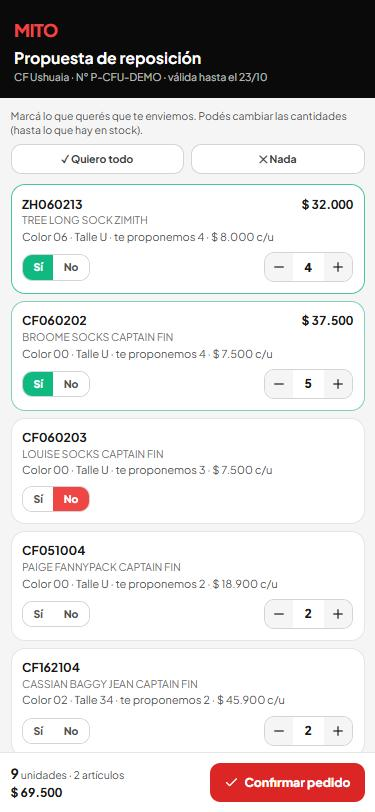
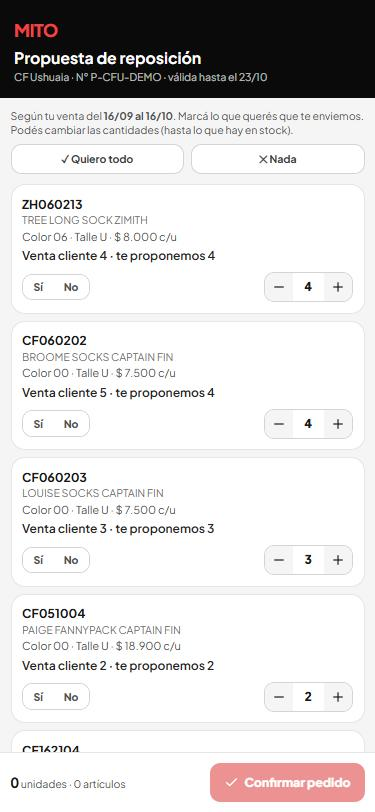
Mockup franquicias calzado: flujo completo link /p/:token -> confirmacion del cliente -> alta en Dragon con historial de estado + propuesta de celular actualizada

diff --git a/mockups/franquicias-pedido-calzado-curve.html b/mockups/franquicias-pedido-calzado-curve.html
@@ -91,13 +91,15 @@
   <h1 class="font-display text-2xl font-semibold text-ink mt-2 mb-1">Franquicias › Pedido de calzado</h1>
   <p class="text-sm text-sub">Primero el <b class="text-amber-400">cliente</b> (impacta en Dragonfish), después filtros de <b>temporada / material / grupo / familia</b>, y se arma la <b>nota de pedido de venta</b>.</p>
 
-  <p class="cap">Cómo funciona</p>
+  <p class="cap">Cómo funciona (mismo circuito que Reposición sugerida)</p>
   <div class="note">
     <ol>
-      <li><b class="text-ink">1 · Cliente obligatorio</b>: apenas entrás hay que <b>seleccionar el cliente</b> (ID Cliente de MITO). Hasta que no lo elegís, la tabla y los filtros quedan bloqueados. Ese ID Cliente es el que después <b>impacta en Dragonfish</b> al grabar la nota de pedido. <span class="tag">1.990 clientes reales</span></li>
-      <li><b class="text-ink">2 · Filtros multi-selección</b> de <b>Temporada</b> (Verano / Continuo / Invierno / Atemporal), <b>Material</b>, <b>Grupo</b> y <b>Familia</b>. Podés tildar varios en cada uno; se combinan entre sí y filtran la tabla al instante.</li>
-      <li><b class="text-ink">3 · Curva de talles</b>: dos solapas (zapatillas talle simple / chanclas y slippers talle doble). Cada celda muestra <b>arriba el stock de MITO</b> del talle (verde/ámbar/gris) y abajo el input para cargar los pares.</li>
-      <li><b class="text-ink">4 · Nota de pedido</b>: con lo cargado se genera la nota de pedido de venta del cliente elegido. Excel / PDF / WhatsApp comparativo.</li>
+      <li><b class="text-ink">1 · Cliente obligatorio</b>: apenas entrás hay que <b>seleccionar el cliente</b> (ID Cliente de MITO). Hasta que no lo elegís, la tabla y los filtros quedan bloqueados. Ese ID Cliente es el que va en la cabecera del <b>pedido de venta</b> que se carga en Dragon. <span class="tag">1.990 clientes reales</span></li>
+      <li><b class="text-ink">2 · Filtros multi-selección</b> de <b>Temporada</b> (Verano / Continuo / Invierno / Atemporal), <b>Material</b>, <b>Grupo</b> y <b>Familia</b> (de <code>DWH.dbo.vw_DIM_ARTICULO</code>). Podés tildar varios en cada uno; se combinan y filtran la tabla al instante.</li>
+      <li><b class="text-ink">3 · Curva de talles</b>: dos solapas (zapatillas talle simple / chanclas y slippers talle doble). Cada celda muestra <b>arriba el stock de MITO</b> del talle y abajo el input para cargar los pares.</li>
+      <li><b class="text-ink">4 · Armar link y mandar por WhatsApp</b>: se guarda la propuesta con el cliente elegido y sale el link <code>/p/:token</code>.</li>
+      <li><b class="text-ink">5 · El cliente confirma</b> desde el link (marca sí/no y cantidades, topeadas al stock de MITO).</li>
+      <li><b class="text-ink">6 · Alta en Dragon automática</b>: el puente toma las confirmadas y las carga como <b>Pedido de Venta</b> en <code>DRAGONFISH_MITO</code> por la API REST (<code>POST /Pedido/</code>). Después podés seguir el estado desde la pantalla.</li>
     </ol>
   </div>
 
@@ -170,10 +172,61 @@
         <button class="tabbtn" id="btnLimpiar">Limpiar cantidades</button>
         <button class="tabbtn" id="btnExcel">⬇ Excel</button>
         <button class="tabbtn" id="btnPdf">PDF</button>
-        <button class="tabbtn primary" id="btnGuardarEnviar">Guardar nota de pedido y enviar</button>
+        <button class="tabbtn primary" id="btnGuardarEnviar">Armar link y mandar por WhatsApp</button>
       </div>
     </div>
-    <p class="mt-2 text-[11px] text-sub">La fila de <b class="text-ink">talles queda fija</b> arriba al scrollear. <b class="text-ink">No se puede pedir más que el stock de MITO.</b></p>
+    <p class="mt-2 text-[11px] text-sub">La fila de <b class="text-ink">talles queda fija</b> arriba al scrollear. <b class="text-ink">No se puede pedir más que el stock de MITO.</b> El pedido queda <b class="text-ink">pendiente</b> hasta que el cliente lo confirma desde el link.</p>
+  </div>
+
+  <!-- PASO 3: historial / estado hasta Dragon -->
+  <p class="cap">Paso 3 · Estado de las propuestas (hasta el alta en Dragon)</p>
+  <div class="frame">
+    <div class="flex flex-wrap items-center gap-2 mb-2">
+      <span class="step">3</span>
+      <p class="font-display text-base font-semibold text-ink">Propuestas de pedido de calzado</p>
+      <p class="ml-auto text-[12px] text-sub">El puente carga en Dragon la confirmada, en el minuto siguiente</p>
+    </div>
+    <div class="overflow-x-auto rounded-xl border border-line">
+      <table class="cli" style="border-collapse:separate;border-spacing:0">
+        <thead>
+          <tr>
+            <th style="width:120px">N°</th>
+            <th>Cliente destino</th>
+            <th style="width:120px">Enviada</th>
+            <th style="width:120px" class="text-right">Pares</th>
+            <th style="width:120px" class="text-right">Pidió</th>
+            <th style="width:230px">Estado</th>
+          </tr>
+        </thead>
+        <tbody>
+          <tr>
+            <td class="font-semibold text-ink">P-CFU-0003</td>
+            <td class="text-ink">#01140 — Argentina S.R.L. <span class="text-sub">· Ushuaia</span></td>
+            <td class="text-sub">19/10 09:12</td>
+            <td class="text-right tabular-nums text-sub">412 u.</td>
+            <td class="text-right tabular-nums text-ink font-semibold">386 u.</td>
+            <td><span class="badge sur" style="color:#d8b4fe;border-color:rgba(168,85,247,.45);background:rgba(168,85,247,.14)">En Dragon · pedido 41.207</span></td>
+          </tr>
+          <tr>
+            <td class="font-semibold text-ink">P-CFU-0002</td>
+            <td class="text-ink">#00790 — AMILCAR SERGIO HEREDIA FERNAND <span class="text-sub">· Ushuaia</span></td>
+            <td class="text-sub">18/10 17:40</td>
+            <td class="text-right tabular-nums text-sub">210 u.</td>
+            <td class="text-right tabular-nums text-ink font-semibold">210 u.</td>
+            <td><span class="badge" style="color:#5eead4;border-color:rgba(45,212,191,.4);background:rgba(45,212,191,.12)">Confirmada · cargando en Dragon…</span></td>
+          </tr>
+          <tr>
+            <td class="font-semibold text-ink">P-CFU-0001</td>
+            <td class="text-ink">#01140 — Argentina S.R.L. <span class="text-sub">· Ushuaia</span></td>
+            <td class="text-sub">18/10 11:05</td>
+            <td class="text-right tabular-nums text-sub">180 u.</td>
+            <td class="text-right tabular-nums text-sub">—</td>
+            <td><span class="badge" style="color:#7dd3fc;border-color:rgba(14,165,233,.4);background:rgba(14,165,233,.12)">Enviada · esperando que confirme</span></td>
+          </tr>
+        </tbody>
+      </table>
+    </div>
+    <p class="mt-2 text-[11px] text-sub">Igual que en Reposición sugerida: si Dragon rechaza queda el error y se puede <b class="text-ink">reintentar</b>. Una vez en Dragon, el pedido vive en <b class="text-ink">Pedidos de Venta</b>.</p>
   </div>
 </div>
 
@@ -519,22 +572,25 @@
   }
 
   // ---------- acciones ----------
+  // Mismo circuito que la reposición: se arma la propuesta con el CLIENTE elegido,
+  // se manda el link por WhatsApp, el cliente confirma desde /p/:token y RECIÉN AHÍ
+  // el puente la carga como pedido de venta en Dragon (API REST /Pedido/).
   document.getElementById('btnGuardarEnviar').onclick=function(){
     if(!clienteSel){ openCli(); return; }
     const l=lineas(); if(!l.length){ alert('Cargá cantidades primero'); return; }
     const pares=l.reduce((s,x)=>s+x.cant,0), total=l.reduce((s,x)=>s+x.cant*x.precio,0);
-    var msg='NOTA DE PEDIDO DE VENTA — CALZADO\nCliente: #'+clienteSel.id+' — '+clienteSel.nombre+'\n';
-    (filtros.temporada.length?msg+='Temporada: '+filtros.temporada.join(', ')+'\n':'');
-    msg+='\n';
-    var art=null,col=null;
-    l.forEach(function(x){
-      if(x.art!==art){art=x.art;col=null;msg+='▪ '+x.art+' — '+(x.descrip||'')+'\n'}
-      if(x.color!==col){col=x.color;msg+='   Color '+x.color+':\n'}
-      msg+='     Talle '+x.talle+' x'+x.cant+'\n';
-    });
-    msg+='\nTotal: '+pares+' pares · '+moneyf(total);
+    if(!window.confirm('Se arma la propuesta para '+clienteSel.nombre+' ('+l.length+' líneas · '+pares+' pares · '+moneyf(total)+') y se abre WhatsApp con el link para que confirme. ¿Seguir?')) return;
+    // mensaje que se manda por WhatsApp con el link /p/:token
+    var msg='Hola, te armamos el pedido de calzado para '+clienteSel.nombre+' ('+pares+' pares · '+moneyf(total)+').
+'+
+      'Elegí y confirmá acá: https://hub.mito/p/P-CFU-0001
+(vale hasta el 26/10)';
     window.open('https://wa.me/?text='+encodeURIComponent(msg),'_blank');
-    alert('Nota de pedido a grabar en Dragonfish\nCliente: #'+clienteSel.id+' — '+clienteSel.nombre+'\n'+pares+' pares · '+moneyf(total));
+    alert('Propuesta P-CFU-0001 creada (pendiente).
+Cliente destino: #'+clienteSel.id+' — '+clienteSel.nombre+
+      '
+
+El cliente la confirma desde el link. Cuando confirma, el puente la carga como PEDIDO DE VENTA en Dragon.');
   };
 
   document.getElementById('btnExcel').onclick=function(){
